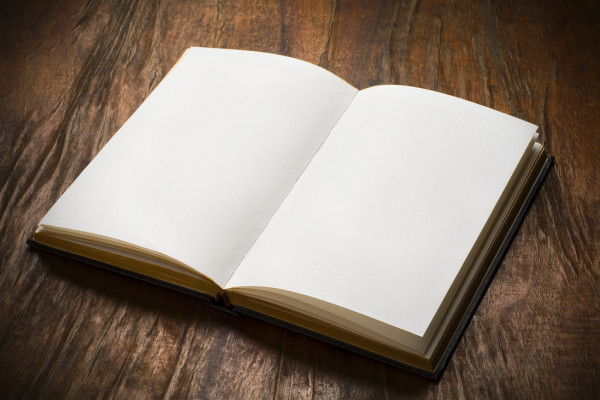
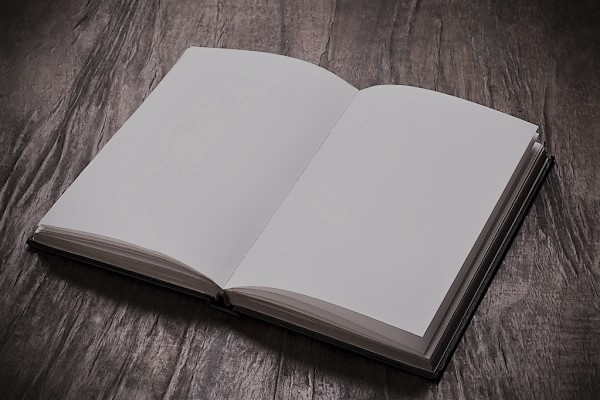
change photo do employment

diff --git a/index.html b/index.html
@@ -121,11 +121,12 @@
             </div>
           </div>
         </div>    
+        
         <div class="col-12 col-md-6 col-lg-4">
           <div class="cv-education cv-block">
             <div class="cv-hitory-header">
               <div class="cv-image">
-                <img src="assets/images/cvimg.jpg" alt="Education photo">
+                <img src="assets/images/employment.jpg" alt="Education photo">
               </div>
               <h2>Employment</h2>
             </div>
